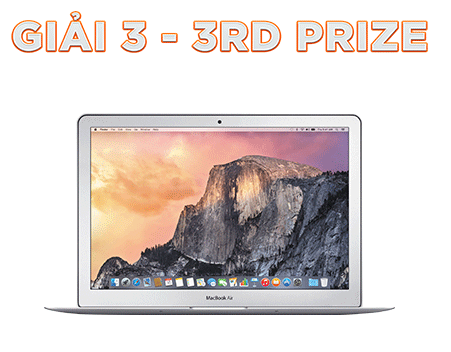
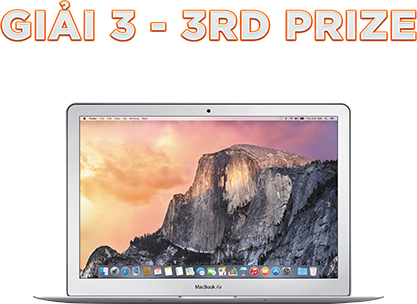
Change Resource

diff --git a/LuckyDrawCore/DrawPage.xaml b/LuckyDrawCore/DrawPage.xaml
@@ -5,8 +5,8 @@
       xmlns:d="http://schemas.microsoft.com/expression/blend/2008"
       xmlns:control="clr-namespace:LuckyDrawCore"
       mc:Ignorable="d"
-      d:DesignHeight="768"
-      d:DesignWidth="1366"
+      d:DesignHeight="512"
+      d:DesignWidth="1024"
       Title="Result1Page">
 
     <Grid>
@@ -14,21 +14,23 @@
             <ImageBrush ImageSource="Resources/bg.png" />
         </Grid.Background>
         <Grid.ColumnDefinitions>
-            <ColumnDefinition Width="400*" />
+            <ColumnDefinition Width="200*" />
+            <ColumnDefinition Width="200*" />
             <ColumnDefinition Width="506*" />
             <ColumnDefinition Width="200*" />
             <ColumnDefinition Width="300*" />
         </Grid.ColumnDefinitions>
         <Grid.RowDefinitions>
-            <RowDefinition Height="2*" />
+            <RowDefinition Height="*" />
+            <RowDefinition Height="*" />
             <RowDefinition Height="*" />
             <RowDefinition Height="1.25*" />
         </Grid.RowDefinitions>
-
-        <control:ResultControl  Grid.Column="1"
-                                Grid.Row="1"
+        <Image Grid.Column="1" Grid.Row="1" Grid.ColumnSpan="3" Source="Resources/congrats.png" x:Name="congrats" Visibility="Hidden"></Image>
+        <control:ResultControl  Grid.Column="2"
+                                Grid.Row="2"
                                 x:Name="Result" />
-        <Image Grid.Column="2" Grid.Row="1" Source="Resources/bgButtonStart.png" x:Name="btnStart" Width="150" Height="150"></Image>
+        <Image Grid.Column="3" Grid.Row="2" Source="Resources/bgButtonStart.png" x:Name="btnStart" Width="75" Height="75"></Image>
 
     </Grid>
 </Page>

diff --git a/LuckyDrawCore/DrawPage16.xaml b/LuckyDrawCore/DrawPage16.xaml
@@ -5,8 +5,8 @@
       xmlns:d="http://schemas.microsoft.com/expression/blend/2008"
       xmlns:control="clr-namespace:LuckyDrawCore"
       mc:Ignorable="d"
-      d:DesignHeight="768"
-      d:DesignWidth="1366"
+      d:DesignHeight="512"
+      d:DesignWidth="1024"
       Title="Result1Page">
 
     <Grid>
@@ -42,7 +42,7 @@
         <!--<control:ResultControl  Grid.Column="1"
                                 Grid.Row="1"
                                 x:Name="Result" />-->
-        <Image Grid.Column="2" Grid.Row="1" Source="Resources/bgButtonStart.png" x:Name="btnStart" Width="150" Height="150"></Image>
+        <Image Grid.Column="2" Grid.Row="1" Source="Resources/bgButtonStart.png" x:Name="btnStart" Width="75" Height="75"></Image>
     </Grid>
 </Page>
 

diff --git a/LuckyDrawCore/ResultControl.xaml b/LuckyDrawCore/ResultControl.xaml
@@ -5,12 +5,12 @@
              xmlns:d="http://schemas.microsoft.com/expression/blend/2008"
              mc:Ignorable="d"
              d:DesignHeight="300"
-             d:DesignWidth="300">
+             d:DesignWidth="600">
     <UserControl.Resources>
         <Style TargetType="Border"
                x:Key="NumberBorder">
             <Setter Property="BorderThickness"
-                    Value="1" />
+                    Value="0" />
             <Setter Property="BorderBrush"
                     Value="#FFADADAD" />
             <Setter Property="Background"

diff --git a/LuckyDrawCore/PrizePage.xaml b/LuckyDrawCore/PrizePage.xaml
@@ -5,8 +5,8 @@
       xmlns:d="http://schemas.microsoft.com/expression/blend/2008" 
       xmlns:local="clr-namespace:LuckyDrawCore"
       mc:Ignorable="d" 
-      d:DesignHeight="768"
-      d:DesignWidth="1366"
+      d:DesignHeight="512"
+      d:DesignWidth="1024"
       Title="PrizePage">
 
     <Grid>

diff --git a/LuckyDrawCore/ThankPage.xaml b/LuckyDrawCore/ThankPage.xaml
@@ -5,7 +5,7 @@
       xmlns:d="http://schemas.microsoft.com/expression/blend/2008" 
       xmlns:local="clr-namespace:LuckyDrawCore"
       mc:Ignorable="d" 
-      d:DesignHeight="768" d:DesignWidth="1366"
+      d:DesignHeight="512" d:DesignWidth="1024"
       Title="WelcomePage">
 
     <Grid>

diff --git a/LuckyDrawCore/DrawPage.xaml.cs b/LuckyDrawCore/DrawPage.xaml.cs
@@ -30,6 +30,7 @@ namespace LuckyDrawCore
 
         void DrawPage_Loaded(object sender, RoutedEventArgs e)
         {
+            congrats.Visibility = Visibility.Hidden;
             var window = Window.GetWindow(this);
             window.KeyUp += Window_KeyUp;
         }
@@ -49,6 +50,10 @@ namespace LuckyDrawCore
                         else
                         {
                             hasResult = true;
+                            if (DrawHelper.CurrentStage <= 9)
+                            {
+                                congrats.Visibility = Visibility.Visible; 
+                            }
                             Result.SetResult(DrawHelper.GetWinner());
                             btnStart.Source = new BitmapImage(new Uri("Resources/bgButtonStart.png", UriKind.Relative));
                         }
@@ -59,6 +64,7 @@ namespace LuckyDrawCore
                     if (firstTimePress && hasResult)
                     {
                         hasResult = false;
+                        congrats.Visibility = Visibility.Hidden;
                         Result.SetResult("000");
                     }
                     break;

diff --git a/LuckyDrawCore/MainWindow.xaml.cs b/LuckyDrawCore/MainWindow.xaml.cs
@@ -34,21 +34,23 @@ namespace LuckyDrawCore
 
         private void SetMainGridSize()
         {
-            var h = MainGrid.ActualHeight;
-            var w = MainGrid.ActualWidth;
-            var r = h / w;
-            var n = 512 / 1024.0;
-            if (r >= n)
-            {
-                MainGrid.Width = w;
-                MainGrid.Height = w * n;
-            }
-            else
-            {
-                MainGrid.Height = h;
-                MainGrid.Width = h / n;
-            }
+            MainGrid.Width = 1024;
+            MainGrid.Height = 512;
+            //var h = MainGrid.ActualHeight;
+            //var w = MainGrid.ActualWidth;
+            //var r = h / w;
+            //var n = 512 / 1024.0;
+            //if (r >= n)
+            //{
+            //    MainGrid.Width = w;
+            //    MainGrid.Height = w * n;
+            //}
+            //else
+            //{
+            //    MainGrid.Height = h;
+            //    MainGrid.Width = h / n;
+            //}
         }
- 
+
     }
 }

diff --git a/LuckyDrawCore/PrizePage.xaml.cs b/LuckyDrawCore/PrizePage.xaml.cs
@@ -52,7 +52,7 @@ namespace LuckyDrawCore
                     PrizeImage.Source = new BitmapImage(new Uri("/Resources/3rdPrize.png", UriKind.Relative));
                     break;
                 case 3:
-                    PrizeImage.Source = new BitmapImage(new Uri("/Resources/2ngPrize.png", UriKind.Relative));
+                    PrizeImage.Source = new BitmapImage(new Uri("/Resources/2ndPrize.png", UriKind.Relative));
                     break;
                 case 2:
                     PrizeImage.Source = new BitmapImage(new Uri("/Resources/1stPrize.png", UriKind.Relative));
@@ -64,6 +64,7 @@ namespace LuckyDrawCore
                     break;
                 default:
                     window.KeyUp -= Window_KeyUp;
+                    NavigationService.Navigate(new Uri("ThankPage.xaml", UriKind.Relative));
                     break;
             }
         }
